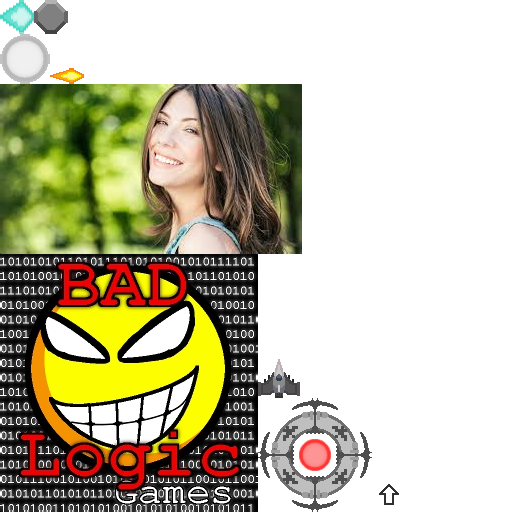
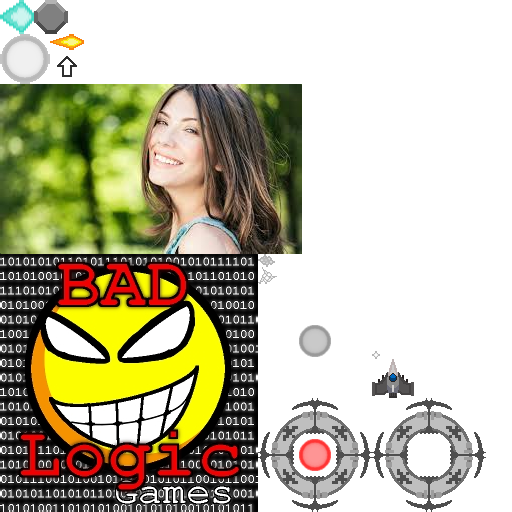
Seperated Sprites in Enemy Ship
~ Ship core changes color
	~ AI tweaks
	~ F8 now brings up QuadTree

diff --git a/core/src/com/coffee/entity/systems/AISystem.java b/core/src/com/coffee/entity/systems/AISystem.java
@@ -3,6 +3,7 @@ package com.coffee.entity.systems;
 import com.badlogic.ashley.core.Entity;
 import com.badlogic.ashley.core.Family;
 import com.badlogic.ashley.systems.IteratingSystem;
+import com.badlogic.gdx.graphics.Color;
 import com.badlogic.gdx.math.MathUtils;
 import com.badlogic.gdx.math.Vector2;
 import com.badlogic.gdx.utils.viewport.Viewport;
@@ -122,7 +123,7 @@ public class AISystem extends IteratingSystem {
                 } else if (HEALTH.getHealthPercent() >= 0.25) {  // 25% - 50%
                     // region 25% - 50%
                     // Create a base for all attacks
-                    if (MathUtils.randomBoolean(.35f)) {
+                    if (MathUtils.randomBoolean(.5f)) {
                         // Fake out chance (high in this stage)
                     } else if (MathUtils.randomBoolean(0.66f)) {
                         if (MathUtils.randomBoolean(0.33f)) {
@@ -148,6 +149,10 @@ public class AISystem extends IteratingSystem {
 
                         if (MathUtils.randomBoolean(0.4f)) {
                             AI.TASKS.add(new BossActions.XBeam(getEngine()));
+                        }
+
+                        if (MathUtils.randomBoolean(0.4f)) {
+                            AI.TASKS.add(new BossActions.PlusBeam(getEngine()));
                         }
                     } else if (MathUtils.randomBoolean(.35f)) {
                         if (MathUtils.randomBoolean(0.5f))
@@ -184,11 +189,7 @@ public class AISystem extends IteratingSystem {
                     //region > 25%
                     // Create a base for all attacks
                     if (MathUtils.randomBoolean(0.66f)) {
-                        if (MathUtils.randomBoolean(0.2f)) {
-                            AI.TASKS.add(new BossActions.ShiftingSpiralAttack(getEngine()));
-                        } else if (MathUtils.randomBoolean(0.1f)) {
-                            AI.TASKS.add(new BossActions.ReverseShiftingSpiralAttack(getEngine()));
-                        } else if (MathUtils.randomBoolean(0.35f)) {
+                        if (MathUtils.randomBoolean(0.4f)) {
                             AI.TASKS.add(new BossActions.SpringBlossom(getEngine()));
                         } else if (MathUtils.randomBoolean(0.4f)) {
                             AI.TASKS.add(new BossActions.LunaticGun(getEngine()));
@@ -200,15 +201,27 @@ public class AISystem extends IteratingSystem {
                             AI.TASKS.add(new BossActions.SimpleSpiralAttack(getEngine()));
                             AI.TASKS.add(new BossActions.SpringBlossom(getEngine()));
                             AI.TASKS.get(1).parallel = true;
-                        } else if (MathUtils.randomBoolean(.5f)) {
+                        } else if (MathUtils.randomBoolean(.7f)) {
                             AI.TASKS.add(new BossActions.TempestBloom(getEngine()));
                             AI.TASKS.add(new BossActions.SpringBlossom(getEngine()));
                             AI.TASKS.get(1).parallel = true;
                         }
 
                         // Add some spices
-                        if (MathUtils.randomBoolean(0.1f)) { // Add some random homing stuff
+                        if (MathUtils.randomBoolean(0.3f)) { // Add some random homing stuff
                             final BossActions.Action ACTION = new BossActions.HomingBulletCircleAttack(getEngine());
+                            ACTION.parallel = true;
+                            AI.TASKS.add(ACTION);
+                        }
+
+                        if (MathUtils.randomBoolean(0.5f)) {
+                            final BossActions.Action ACTION = new BossActions.XBeam(getEngine());
+                            ACTION.parallel = true;
+                            AI.TASKS.add(ACTION);
+                        }
+
+                        if (MathUtils.randomBoolean(0.6f)) {
+                            final BossActions.Action ACTION = new BossActions.StarBeam(getEngine());
                             ACTION.parallel = true;
                             AI.TASKS.add(ACTION);
                         }
@@ -230,7 +243,7 @@ public class AISystem extends IteratingSystem {
                     } else if (MathUtils.randomBoolean(.75f)) {
                         if (MathUtils.randomBoolean(0.4f))
                             AI.TASKS.add(new BossActions.ImperishableNight(getEngine()));
-                        else if (MathUtils.randomBoolean(.5f)) {
+                        else if (MathUtils.randomBoolean(.7f)) {
                             AI.TASKS.add(new BossActions.XBeam(getEngine()));
 
                             Vector2 move = new Vector2();
@@ -260,10 +273,19 @@ public class AISystem extends IteratingSystem {
                         AI.TASKS.add(new BossActions.DoNothing(3f));
                     }
 
-                    if (MathUtils.randomBoolean(0.5f)) {
-                        Vector2 move = new Vector2();
-                        generateRandomMoveTarget(TRANSFORM, move);
-                        AI.TASKS.add(new BossActions.Move(2f, move));
+                    if (MathUtils.randomBoolean(.5f)) {
+                        if (MathUtils.randomBoolean(.2f)) {
+                            Vector2 move = new Vector2();
+                            generateRandomMoveTarget(TRANSFORM, move);
+                            AI.TASKS.add(new BossActions.Move(1f, move));
+                            final BossActions.Action ACTION = new BossActions.PlusBeam(getEngine());
+                            ACTION.parallel = true;
+                            AI.TASKS.add(ACTION);
+                        } else {
+                            Vector2 move = new Vector2();
+                            generateRandomMoveTarget(TRANSFORM, move);
+                            AI.TASKS.add(new BossActions.Move(2f, move));
+                        }
                     }
 
                     //endregion
@@ -290,6 +312,9 @@ public class AISystem extends IteratingSystem {
                 AI.curState = AIState.SCHEDULING;
         }
         // endregion
+
+        //color change of core
+        Mapper.SPRITE.get(entity).SPRITES.get(1).setColor(new Color(.2f, .2f, 1, 1).lerp(Color.RED, 1f - HEALTH.getHealthPercent()));
 
         if (HEALTH.health <= 0)
             getEngine().removeEntity(entity);

diff --git a/core/src/com/coffee/util/BossActions.java b/core/src/com/coffee/util/BossActions.java
@@ -1009,7 +1009,7 @@ public class BossActions {
                     public void update(float dt) {
                         timer += dt;
 
-                        if (timesShot >= 300) {
+                        if (timesShot >= 450) {
                             ENGINE.removeEntity(BALL);
                             return;
                         }
@@ -1036,7 +1036,7 @@ public class BossActions {
                             final MovementComponent B_MOVE = Mapper.MOVEMENT.get(B);
                             final BulletComponent B_BULLET = Mapper.BULLET.get(B);
 
-                            B_SPRITE.SPRITES.first().setColor(Color.YELLOW);
+                            B_SPRITE.SPRITES.first().setColor(Color.WHITE);
                             B_SPRITE.zIndex = BALL_SPRITE.zIndex - 1;
 
                             B_MOVE.moveSpeed = 6;
@@ -1091,7 +1091,7 @@ public class BossActions {
                     public void update(float dt) {
                         timer += dt;
 
-                        if (timesShot >= 300) {
+                        if (timesShot >= 450) {
                             ENGINE.removeEntity(BALL);
                             return;
                         }
@@ -1173,7 +1173,7 @@ public class BossActions {
                     public void update(float dt) {
                         timer += dt;
 
-                        if (timesShot >= 300) {
+                        if (timesShot >= 450) {
                             ENGINE.removeEntity(BALL);
                             return;
                         }

diff --git a/core/src/com/coffee/entity/EntityFactory.java b/core/src/com/coffee/entity/EntityFactory.java
@@ -1309,14 +1309,18 @@ public class EntityFactory {
         MOVEMENT.rotSpeed = 2;
 
         // Initialize SpriteComponent
-        Sprite main = goAtlas.createSprite("enemy");
-        main.setOriginCenter();
+        Sprite shell = goAtlas.createSprite("enemyShell");
+        shell.setOriginCenter();
+        Sprite core = goAtlas.createSprite("enemyCore");
+        core.setOriginCenter();
+        core.setColor(new Color(.2f, .2f, 1, 1));
 
-        SPRITE.SPRITES.add(main);
+        SPRITE.SPRITES.add(shell);
+        SPRITE.SPRITES.add(core);
 
         // Initialize TransformComponent
-        TRANSFORM.SIZE.setSize(main.getWidth(), main.getHeight());
-        TRANSFORM.ORIGIN.set(main.getOriginX(), main.getOriginY());
+        TRANSFORM.SIZE.setSize(shell.getWidth(), shell.getHeight());
+        TRANSFORM.ORIGIN.set(shell.getOriginX(), shell.getOriginY());
         TRANSFORM.POSITION.set(x - TRANSFORM.ORIGIN.x, y - TRANSFORM.ORIGIN.y);
 
         // Initialize ColliderComponent

diff --git a/core/src/com/coffee/main/screen/GameScreen.java b/core/src/com/coffee/main/screen/GameScreen.java
@@ -281,6 +281,11 @@ public class GameScreen extends ScreenAdapter {
                     ENGINE.getSystem(DebugDrawSystem.class).setProcessing(!ENGINE.getSystem(DebugDrawSystem.class).checkProcessing());
                     System.out.println("Debug View Toggled");
                     break;
+                case Input.Keys.F8: //DeBug Draw System Toggle + QuadTree
+                    ENGINE.getSystem(DebugDrawSystem.class).setProcessing(!ENGINE.getSystem(DebugDrawSystem.class).checkProcessing());
+                    ENGINE.getSystem(DebugDrawSystem.class).setDrawQuadTree(true);
+                    System.out.println("Debug View + QuadTree Toggled");
+                    break;
                 case Input.Keys.F9: //Kill player in their sleep
                     PLAY.lives = 0;
                     Mapper.HEALTH.get(PLAYER).health = 0;

diff --git a/core/src/com/coffee/entity/systems/DebugDrawSystem.java b/core/src/com/coffee/entity/systems/DebugDrawSystem.java
@@ -18,6 +18,7 @@ import com.coffee.util.Mapper;
  * @author Jared Tulayan
  */
 public class DebugDrawSystem extends IteratingSystem {
+    private boolean drawQuadTree;
     private final ShapeRenderer RENDERER;
     private final Camera CAMERA;
 
@@ -72,6 +73,12 @@ public class DebugDrawSystem extends IteratingSystem {
 
         super.update(dt);
 
+        if (drawQuadTree)
+            getEngine().getSystem(CollisionSystem.class).getTree().draw(RENDERER);
         RENDERER.end();
+    }
+
+    public void setDrawQuadTree(boolean draw) {
+        drawQuadTree = draw;
     }
 }

diff --git a/core/src/com/coffee/util/QuadTree.java b/core/src/com/coffee/util/QuadTree.java
@@ -166,10 +166,9 @@ public class QuadTree {
      * Debug draw method
      */
     public void draw(ShapeRenderer DEBUG) {
-        DEBUG.begin(ShapeRenderer.ShapeType.Line);
-        DEBUG.setColor(Color.CYAN);
+        DEBUG.set(ShapeRenderer.ShapeType.Line);
+        DEBUG.setColor(Color.PINK);
         DEBUG.rect(bounds.getX(), bounds.getY(), bounds.getWidth(), bounds.getHeight());
-        DEBUG.end();
 
         if (nodes[0] != null) {
             for(QuadTree node : nodes)

diff --git a/core/src/com/coffee/entity/systems/CollisionSystem.java b/core/src/com/coffee/entity/systems/CollisionSystem.java
@@ -104,4 +104,8 @@ public class CollisionSystem extends IteratingSystem {
             }
         }
     }
+
+    public QuadTree getTree() {
+        return TREE;
+    }
 }
